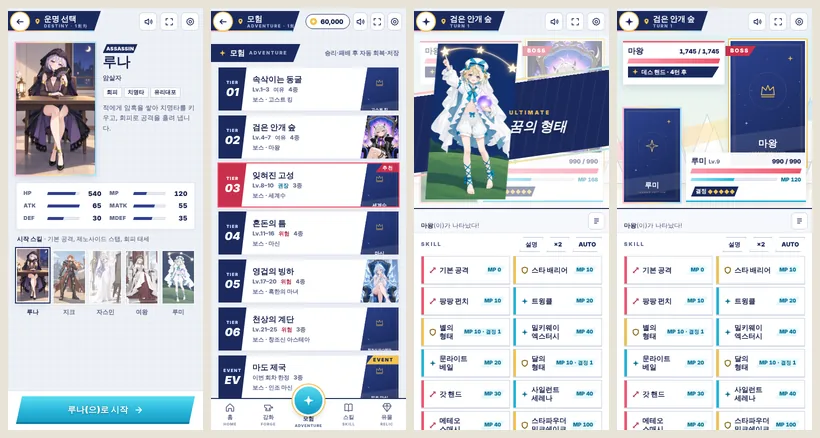
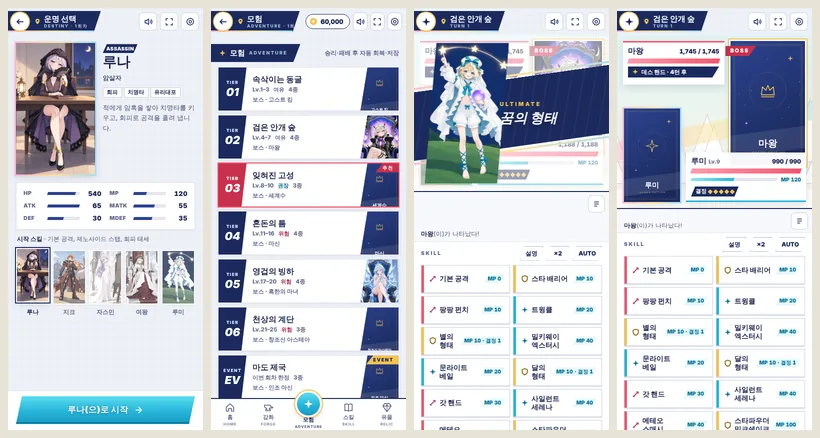
fix(rpg): fill the lobby, smaller adventure medallion, a log that holds a turn
- Home: the hero card now takes the height left over, so the art fills
  the middle; level moves to a medal on the card, stats sit in one strip
  right under it, followed by shortcuts for what can be done now (forge
  affordable, learnable skills, next relic) and the sortie button.
- The adventure medallion is smaller and rises less, so it no longer
  covers the "모험" label or the sortie button above it.
- Battle log shows four to five lines (a whole turn) with a slim turn
  divider; the stage gives up a little height for it.
- Blocked skills no longer print "MP 부족" over the cost; the cost chip
  turns coral instead, and the reason stays in the button's label.

Claude-Session: https://claude.ai/code/session_01NRTbSfcRSphDH17by6Gqf7

Changed region(s): [[0.4878, 0.5046, 0.7317, 0.9795], [0.4878, 0.089, 0.7622, 0.5046], [0.3354, 0.8607, 0.3963, 0.9795]]

diff --git a/rpg/new.html b/rpg/new.html
@@ -165,26 +165,33 @@ main { position: relative; flex: 1; min-height: 0; }
 #scr-town[data-tab=home] #page-home { display: flex; }
 .home-bg { position: absolute; inset: 0; }
 .home-bg .scenery { width: 100%; height: 100%; }
-.home-bg::after { content: ""; position: absolute; inset: 0; background: linear-gradient(rgba(238, 241, 247, 0) 30%, rgba(238, 241, 247, .95) 70%); }
-.home-hero { position: relative; flex: 1; min-height: 0; display: grid; grid-template-columns: minmax(0, 47%) 1fr; gap: 14px; padding: 12px 14px 0; align-items: start; }
-.home-art { position: relative; }
-.home-art .frame { width: 100%; }
-.hero-name { position: absolute; z-index: 3; left: -14px; bottom: 7%; display: flex; flex-direction: column; padding: 6px 24px 6px 18px; background: var(--navy); color: #fff; clip-path: var(--slant); }
-.hero-name b { font-size: 20px; font-weight: 900; line-height: 1.1; }
+.home-bg::after { content: ""; position: absolute; inset: 0; background: linear-gradient(rgba(238, 241, 247, 0) 45%, rgba(238, 241, 247, .96) 72%); }
+/* Lobby: the hero card takes whatever height is left, so the art fills the middle on every screen. */
+.home { position: relative; z-index: 1; flex: 1; min-height: 0; display: grid; grid-template-rows: minmax(0, 1fr) auto auto auto; gap: 10px; padding: 12px 14px 22px; }
+.home-stage { position: relative; min-height: 0; display: flex; justify-content: center; }
+.home-glow { position: absolute; left: 50%; top: 50%; width: 120%; aspect-ratio: 1; transform: translate(-50%, -50%); background: repeating-conic-gradient(from 0deg, rgba(255, 255, 255, .55) 0 6deg, transparent 6deg 18deg); -webkit-mask-image: radial-gradient(circle, #000 0, transparent 62%); mask-image: radial-gradient(circle, #000 0, transparent 62%); pointer-events: none; }
+.home-card { position: relative; height: 100%; max-height: calc((min(100vw, 480px) - 28px) * 1.15); aspect-ratio: 3 / 5; }
+.home-card .frame { width: 100%; height: 100%; }
+.lv-medal { position: absolute; z-index: 3; top: -8px; right: -18px; display: grid; place-content: center; width: 60px; height: 60px; border-radius: 50%; text-align: center; background: #fff; color: var(--navy); box-shadow: 0 0 0 3px var(--gold), var(--shadow); }
+.lv-medal small { font-size: 9px; font-weight: 900; letter-spacing: .22em; color: var(--ink-3); }
+.lv-medal b { font-size: 23px; font-weight: 900; font-style: italic; line-height: 1; }
+.hero-name { position: absolute; z-index: 3; left: -18px; bottom: 7%; display: flex; flex-direction: column; padding: 6px 26px 6px 18px; background: var(--navy); color: #fff; clip-path: var(--slant); }
+.hero-name b { font-size: 21px; font-weight: 900; line-height: 1.1; }
 .hero-name small { font-size: 11px; font-weight: 800; color: #CFE0FF; }
-.hero-side { display: flex; flex-direction: column; gap: 10px; min-width: 0; }
-.lv { display: flex; align-items: baseline; gap: 6px; }
-.lv b { font-size: 36px; font-weight: 900; font-style: italic; line-height: 1; color: var(--navy); }
-.lv span { font-size: 12px; font-weight: 900; color: var(--ink-3); }
-.lv-sub { margin-top: 5px; font-size: 11px; font-weight: 800; color: var(--ink-3); font-variant-numeric: tabular-nums; }
-.statlist { padding: 6px 12px; }
-.statlist div { display: flex; justify-content: space-between; align-items: baseline; padding: 4px 0; font-size: 11px; font-weight: 900; letter-spacing: .06em; color: var(--ink-3); border-bottom: 1px dashed var(--line); }
-.statlist div:last-child { border-bottom: 0; }
-.statlist b { font-size: 14.5px; letter-spacing: 0; color: var(--ink); font-variant-numeric: tabular-nums; }
-.home-dock { position: relative; z-index: 2; flex-shrink: 0; display: grid; gap: 10px; padding: 12px 14px 14px; }
-.hint { display: flex; align-items: center; gap: 8px; padding: 8px 12px; background: #fff; border-left: 4px solid var(--gold); font-size: 12.5px; font-weight: 800; color: var(--ink-2); box-shadow: 0 2px 6px rgba(27, 42, 94, .06); }
-.hint b { color: var(--ink); }
-.hint svg { width: 16px; height: 16px; flex-shrink: 0; color: var(--gold); }
+.home-stats { display: grid; gap: 8px; padding: 10px 12px; }
+.xp-row { display: grid; grid-template-columns: auto 1fr auto; align-items: center; gap: 10px; font-size: 11px; font-weight: 900; color: var(--ink-3); }
+.xp-row .num { color: var(--ink-2); }
+.stat6 { display: grid; grid-template-columns: repeat(6, 1fr); }
+.stat6 div { padding: 0 2px; text-align: center; font-size: 9.5px; font-weight: 900; letter-spacing: .06em; color: var(--ink-3); border-left: 1px solid var(--line); }
+.stat6 div:first-child { border-left: 0; }
+.stat6 b { display: block; margin-top: 1px; font-size: 14.5px; letter-spacing: 0; color: var(--ink); font-variant-numeric: tabular-nums; }
+.sub4 { display: flex; flex-wrap: wrap; justify-content: center; gap: 4px; }
+.notices { display: flex; flex-wrap: wrap; gap: 6px; }
+.notice { display: inline-flex; align-items: center; gap: 6px; min-height: 34px; padding: 4px 16px 4px 12px; background: #fff; border: 1.5px solid var(--line-2); font-size: 12.5px; font-weight: 900; color: var(--ink); clip-path: var(--para); }
+.notice svg { width: 15px; height: 15px; color: var(--gold); }
+.notice.go { border-color: var(--coral); }
+.notice.go::after { content: ""; width: 7px; height: 7px; border-radius: 50%; background: var(--coral); }
+.notice b { color: var(--aqua-text); }
 .sortie { display: grid; grid-template-columns: auto 1fr auto; align-items: center; gap: 12px; padding: 8px 20px 8px 14px; text-align: left; }
 .sortie .medal { display: grid; place-items: center; width: 50px; height: 50px; border-radius: 50%; background: #fff; color: var(--navy); font-size: 20px; font-weight: 900; font-style: italic; box-shadow: 0 0 0 3px var(--gold); text-shadow: none; }
 .sortie .s-top { display: block; font-size: 10.5px; letter-spacing: .2em; opacity: .92; }
@@ -236,13 +243,13 @@ main { position: relative; flex: 1; min-height: 0; }
 .nav button[aria-selected=true]:not(.medal-tab) { color: #fff; }
 .nav button[aria-selected=true]:not(.medal-tab)::before { content: ""; position: absolute; inset: 6px 3px; z-index: -1; background: var(--navy); clip-path: var(--para); }
 .medal-tab { color: var(--navy) !important; }
-.medal-tab .disc { display: grid; place-items: center; width: 56px; height: 56px; margin-top: -28px; border-radius: 50%; background: var(--aqua); color: #fff; box-shadow: 0 0 0 4px #fff, 0 0 0 6px var(--navy), 0 6px 14px rgba(27, 42, 94, .3); }
-.medal-tab .disc svg { width: 26px; height: 26px; }
+.medal-tab .disc { display: grid; place-items: center; width: 46px; height: 46px; margin-top: -14px; border-radius: 50%; background: var(--aqua); color: #fff; box-shadow: 0 0 0 4px #fff, 0 0 0 6px var(--navy), 0 6px 14px rgba(27, 42, 94, .3); }
+.medal-tab .disc svg { width: 22px; height: 22px; }
 .medal-tab[aria-selected=true] .disc { box-shadow: 0 0 0 4px #fff, 0 0 0 6px var(--gold), 0 6px 14px rgba(27, 42, 94, .3); }
 
 /* ---------- Battle ---------- */
 #scr-battle { background: #fff; }
-.stage { --stage-h: clamp(244px, 41dvh, 352px); position: relative; flex-shrink: 0; height: var(--stage-h); overflow: hidden; }
+.stage { --stage-h: clamp(228px, 37dvh, 330px); position: relative; flex-shrink: 0; height: var(--stage-h); overflow: hidden; }
 .stage-bg { position: absolute; inset: 0; }
 .stage-bg .scenery { width: 100%; height: 100%; }
 .stage::before { content: ""; position: absolute; z-index: 1; left: -10%; right: -10%; top: 50%; height: 38px; background: linear-gradient(90deg, rgba(255, 183, 211, .5), rgba(255, 229, 156, .5), rgba(158, 223, 255, .5)); transform: rotate(-12deg); pointer-events: none; }
@@ -301,15 +308,16 @@ main { position: relative; flex: 1; min-height: 0; }
 @keyframes art-in { 0% { transform: translateX(-60%); opacity: 0; } 20% { transform: none; opacity: 1; } 84% { transform: translateX(4%); opacity: 1; } 100% { transform: translateX(18%); opacity: 0; } }
 @keyframes art-in-r { 0% { transform: translateX(60%); opacity: 0; } 20% { transform: none; opacity: 1; } 84% { transform: translateX(-4%); opacity: 1; } 100% { transform: translateX(-18%); opacity: 0; } }
 @keyframes text-in { 0% { transform: translateY(-50%) translateX(30%); opacity: 0; } 26% { transform: translateY(-50%); opacity: 1; } 84% { opacity: 1; } 100% { transform: translateY(-50%) translateX(-10%); opacity: 0; } }
-.log { position: relative; flex-shrink: 0; height: 50px; padding: 5px 50px 5px 14px; overflow: hidden; background: var(--paper-2); border-top: 2px solid var(--navy); border-bottom: 1px solid var(--line); font-size: 12.5px; line-height: 20px; }
-.log-lines { position: absolute; left: 14px; right: 50px; bottom: 4px; -webkit-mask-image: linear-gradient(transparent, #000 45%); mask-image: linear-gradient(transparent, #000 45%); }
+.log { position: relative; flex-shrink: 0; height: clamp(80px, 12dvh, 104px); padding: 6px 50px 6px 14px; overflow: hidden; background: var(--paper-2); border-top: 2px solid var(--navy); border-bottom: 1px solid var(--line); font-size: 12.5px; line-height: 19px; }
+.log-lines { position: absolute; left: 14px; right: 50px; bottom: 6px; -webkit-mask-image: linear-gradient(transparent, #000 18%); mask-image: linear-gradient(transparent, #000 18%); }
 .log.open { position: absolute; z-index: 30; inset: 0; height: auto; padding: 52px 16px 16px; overflow-y: auto; background: rgba(255, 255, 255, .98); }
 .log.open .log-lines { position: static; -webkit-mask-image: none; mask-image: none; }
 .log-line { color: var(--ink-2); }
 .log-line b { color: var(--ink); }
 .log-line .dmg { color: var(--coral-text); font-weight: 900; }
 .log-line .heal { color: var(--aqua-text); font-weight: 900; }
-.log-line.l-turn { margin-top: 6px; font-size: 10px; font-weight: 900; letter-spacing: .2em; color: var(--ink-3); }
+.log-line.l-turn { display: flex; align-items: center; gap: 8px; margin-top: 4px; font-size: 9.5px; line-height: 15px; font-weight: 900; letter-spacing: .2em; color: var(--ink-3); }
+.log-line.l-turn::after { content: ""; flex: 1; height: 1px; background: var(--line-2); }
 .log-line.l-dmg, .log-line.l-rose, .log-line.l-lose { color: var(--coral-text); }
 .log-line.l-heal, .log-line.l-star, .log-line.l-mag { color: var(--aqua-text); }
 .log-line.l-holy, .log-line.l-fire, .log-line.l-win { color: var(--gold-text); }
@@ -339,16 +347,14 @@ main { position: relative; flex: 1; min-height: 0; }
 .sk.ult .sk-cost { color: var(--ink); background: var(--gold); }
 .sk.ult .sk-desc { color: #D5DEF7; }
 .ult-mark { font-size: 9.5px; font-weight: 900; letter-spacing: .2em; color: var(--gold); }
-.sk .reason { position: absolute; right: 8px; bottom: 4px; font-size: 10px; font-weight: 900; color: var(--coral-text); }
 .sk:disabled { background: var(--paper-2); border-color: var(--line); box-shadow: none; }
 .sk:disabled .sk-name, .sk:disabled .sk-desc { color: var(--ink-3); }
 .sk:disabled .sk-cost { color: var(--ink-3); background: var(--track); }
+.sk:disabled .sk-cost.short { color: var(--coral-text); background: #FFE6EB; }
 .sk.ult:disabled { background: #4A5683; border-color: #4A5683; }
 .sk.ult:disabled .sk-name { color: #DCE3F7; }
-.sk.ult:disabled .reason { color: #FFD3DB; }
+.sk.ult:disabled .sk-cost.short { color: #fff; background: var(--coral-fill); }
 .sk.ready { box-shadow: 0 0 0 2px var(--gold), 0 2px 0 var(--line); }
-.sk.ready .reason { color: var(--gold-text); }
-.sk.ult.ready .reason { color: var(--gold); }
 .sk:active:not(:disabled) { transform: translateY(1px); box-shadow: none; }
 .pass { grid-column: span 2; min-height: 56px; background: #FFF2F4; border: 1.5px solid var(--coral); color: var(--coral-text); font-weight: 900; }
 #scr-battle[aria-busy=true] .sk, #scr-battle[aria-busy=true] .pass { pointer-events: none; }
@@ -3532,29 +3538,41 @@ const UI = (() => {
         const next = nextArtifactLevel();
         const target = (gameState.lastDungeon && dungeonById(gameState.lastDungeon)) || recommended();
         const stats = [['HP', player.maxHp], ['MP', player.maxMp], ['ATK', player.atk], ['MATK', player.matk], ['DEF', player.def], ['MDEF', player.mdef]];
+        // What can be done right now, each a shortcut to its tab.
+        const costs = [equipCost('weapon'), equipCost('armor'), manaCost()].filter(c => c !== null);
+        const canForge = costs.length && gameState.gold >= Math.min(...costs);
+        const learnable = Object.keys(player.skills).filter(k => !gameState.learnedSkills.includes(k) && player.skills[k].price <= gameState.gold).length;
+        const notices = [];
+        if (canForge) notices.push(`<button class="notice go" type="button" data-to="forge">${icon('anvil')}강화 가능</button>`);
+        if (learnable) notices.push(`<button class="notice go" type="button" data-to="skills">${icon('book')}배울 수 있는 스킬 <b>${learnable}</b></button>`);
+        notices.push(`<button class="notice" type="button" data-to="relics">${icon('relic')}${next ? `다음 유물 <b>Lv.${next}</b> · ${next - player.level}레벨 남음` : `유물 <b>${player.artifacts.length}</b>개`}</button>`);
         $('page-home').innerHTML = `
             <div class="home-bg">${Art.scenery('town', 'town')}</div>
-            <div class="home-hero">
-                <div class="home-art"><div class="frame edge" id="home-art"></div><div class="hero-name"><b>${player.name}</b><small>${info.role} · ${info.en}</small></div></div>
-                <div class="hero-side">
-                    <div><div class="lv"><b>Lv.${player.level}</b><span>/ ${maxLevel}</span></div>
-                        <div class="gauge xp" style="--v:${atMax ? 100 : Math.min(100, player.exp / need * 100)}%;margin-top:8px"><i></i></div>
-                        <div class="lv-sub">${atMax ? '최대 레벨' : `EXP ${fmt(player.exp)} / ${fmt(need)}`}</div></div>
-                    <div class="panel-card statlist">${stats.map(([k, v]) => `<div>${k}<b>${fmt(v)}</b></div>`).join('')}</div>
-                    <div class="chips"><span class="chip">치명 ${pct(player.baseCrit)}</span><span class="chip">치명 피해 ${pct(player.baseCritDmg)}</span><span class="chip">회피 ${pct(player.baseEva)}</span><span class="chip">MP 회복 +${player.mpRegen}</span></div>
+            <div class="home">
+                <div class="home-stage"><div class="home-glow"></div>
+                    <div class="home-card"><div class="frame edge" id="home-art"></div>
+                        <div class="lv-medal"><small>LV</small><b>${player.level}</b></div>
+                        <div class="hero-name"><b>${player.name}</b><small>${info.role} · ${info.en}</small></div>
+                    </div>
                 </div>
-            </div>
-            <div class="home-dock">
-                ${gameState.clearedCreator ? `<button class="cycle-card edge" id="btn-next-cycle" type="button"><b>창조신을 쓰러뜨렸습니다 · 다음 회차로</b><span>적 능력치 +10% · 최대 레벨 +1 · 해금한 유물 유지</span></button>` : ''}
-                ${next ? `<p class="hint" style="margin:0">${icon('star')}<span><b>Lv.${next}</b>에 새 유물 · ${next - player.level}레벨 남음 · 보유 ${player.artifacts.length}개</span></p>` : ''}
-                <button class="cta sortie" id="btn-sortie" type="button">
-                    <span class="medal">${target.lv ? String(target.tier).padStart(2, '0') : target.hidden ? '??' : 'EV'}</span>
-                    <span><span class="s-top">${gameState.lastDungeon ? 'AGAIN' : 'SORTIE'}</span><span class="s-main">${gameState.lastDungeon ? '다시 탐험' : '탐험 출발'}</span><span class="s-sub">${target.name}${target.lv ? ` · Lv.${target.lv[0]}–${target.lv[1]}` : ''}</span></span>
-                    ${icon('go')}
-                </button>
+                <div class="panel-card home-stats">
+                    <div class="xp-row"><span>EXP</span><div class="gauge xp" style="--v:${atMax ? 100 : Math.min(100, player.exp / need * 100)}%"><i></i></div><span class="num">${atMax ? `MAX · Lv.${maxLevel}` : `${fmt(player.exp)} / ${fmt(need)} · 최대 Lv.${maxLevel}`}</span></div>
+                    <div class="stat6">${stats.map(([k, v]) => `<div>${k}<b>${fmt(v)}</b></div>`).join('')}</div>
+                    <div class="sub4"><span class="chip">치명 ${pct(player.baseCrit)}</span><span class="chip">치명 피해 ${pct(player.baseCritDmg)}</span><span class="chip">회피 ${pct(player.baseEva)}</span><span class="chip">MP 회복 +${player.mpRegen}</span></div>
+                </div>
+                <div class="notices">${notices.join('')}</div>
+                <div style="display:grid;gap:10px">
+                    ${gameState.clearedCreator ? `<button class="cycle-card edge" id="btn-next-cycle" type="button"><b>창조신을 쓰러뜨렸습니다 · 다음 회차로</b><span>적 능력치 +10% · 최대 레벨 +1 · 해금한 유물 유지</span></button>` : ''}
+                    <button class="cta sortie" id="btn-sortie" type="button">
+                        <span class="medal">${target.lv ? String(target.tier).padStart(2, '0') : target.hidden ? '??' : 'EV'}</span>
+                        <span><span class="s-top">${gameState.lastDungeon ? 'AGAIN' : 'SORTIE'}</span><span class="s-main">${gameState.lastDungeon ? '다시 탐험' : '탐험 출발'}</span><span class="s-sub">${target.name}${target.lv ? ` · Lv.${target.lv[0]}–${target.lv[1]}` : ''}</span></span>
+                        ${icon('go')}
+                    </button>
+                </div>
             </div>`;
         Art.heroArt($('home-art'), player.charKey);
         $('btn-sortie').onclick = () => enterDungeon(target);
+        $('page-home').querySelectorAll('[data-to]').forEach(button => button.onclick = () => { tab = button.dataset.to; renderTown(); });
         const cycle = $('btn-next-cycle');
         if (cycle) cycle.onclick = nextCycle;
     }
@@ -3818,10 +3836,10 @@ const UI = (() => {
         const ordered = keys.filter(k => !player.skills[k].isUlt).concat(keys.filter(k => player.skills[k].isUlt));
         grid.innerHTML = ordered.map(k => {
             const s = player.skills[k], blocked = skillBlocker(k), ready = isCharged(s);
-            return `<button class="sk t-${s.type}${s.isUlt ? ' ult' : ''}${ready ? ' ready' : ''}" type="button" data-skill="${k}" ${blocked ? 'disabled' : ''}>
+            return `<button class="sk t-${s.type}${s.isUlt ? ' ult' : ''}${ready ? ' ready' : ''}" type="button" data-skill="${k}" ${blocked ? `disabled aria-label="${s.name}, ${blocked}"` : ''}>
                 ${s.isUlt ? '<span class="ult-mark">ULTIMATE</span>' : ''}
-                <span class="sk-top"><span class="ico">${Art.typeIcon(s.type)}</span><span class="sk-name">${s.name}</span><span class="sk-cost">${ready ? '발동' : skillCost(s)}</span></span>
-                <span class="sk-desc">${s.desc}</span>${blocked ? `<span class="reason">${blocked}</span>` : ready ? '<span class="reason">차지 완료</span>' : ''}</button>`;
+                <span class="sk-top"><span class="ico">${Art.typeIcon(s.type)}</span><span class="sk-name">${s.name}</span><span class="sk-cost${blocked ? ' short' : ''}">${ready ? '발동' : skillCost(s)}</span></span>
+                <span class="sk-desc">${s.desc}</span></button>`;
         }).join('');
         grid.querySelectorAll('[data-skill]').forEach(button => button.onclick = () => act(button.dataset.skill));
     }

diff --git a/rpg/README.md b/rpg/README.md
@@ -22,7 +22,7 @@
 **화면**
 - 모든 그림 틀은 3:5입니다. 레이아웃은 일러스트를 중심으로 짰습니다.
   - 타이틀: 다섯 캐릭터를 부채꼴로 겹쳐 세운 키 비주얼. 마지막으로 플레이한 캐릭터가 앞에 섭니다.
-  - 마을 홈: 내 캐릭터 일러스트와 출격 버튼.
+  - 마을 홈: 남는 높이를 모두 채우는 캐릭터 일러스트(레벨 메달), 스탯 띠, 지금 할 수 있는 일(강화 가능·배울 수 있는 스킬·다음 유물), 출격 버튼.
   - 모험 목록: 던전마다 보스 일러스트를 썸네일로 보여줍니다.
   - 전투: 적 카드는 오른쪽 위, 내 카드는 왼쪽 아래, 정보판은 각각 맞은편에 둔 대각 구도입니다.
 - 색은 스텔라 소라식입니다.
@@ -34,6 +34,7 @@
   - 필살기·보스 등장·보스 특수기는 일러스트가 대각선 띠로 들어오는 컷인으로 보여줍니다. 화면을 누르면 건너뜁니다.
   - 적의 다음 행동을 예고합니다: 데스 핸드까지 남은 턴, 차지, 반격 태세, 마신의 면역 턴, 시간의 지배자 예고, 세계수의 빛 등. 예고가 없는 적은 쓰는 기술의 종류와 위력을 보여줍니다.
   - 장미·꿈의 결정·앱솔루트·디바인·암흑 같은 캐릭터 자원이 늘 보입니다.
+  - 전투 기록은 한 턴(내 행동, 적의 행동, 받은 피해)이 다 보이도록 4~5줄을 보여주고, 펼치면 전체 기록을 봅니다.
 - **AUTO · ×2 · 반복 탐험**
   - AUTO는 다음 순서로 스킬을 고릅니다.
     1. 이번 공격으로 끝낼 수 있으면 마무리
@@ -45,7 +46,7 @@
   - 적정 레벨 던전에서 무작위 선택·기본 공격만 쓰기보다 승률이 같거나 높고, 전투가 짧습니다.
   - AUTO를 켠 채 이기면 3초 뒤 같은 던전을 다시 탐험합니다.
 - 버튼
-  - MP·결정이 부족한 스킬, 골드가 부족한 구매는 이유를 붙여 비활성화합니다.
+  - MP·결정이 부족한 스킬은 비활성화하고 비용 칩을 코랄색으로 바꿔 무엇이 모자란지 보여줍니다. 골드가 부족한 구매는 "골드 부족"을 표시합니다.
   - 행동 불가 턴에는 "턴 넘기기" 하나만 나옵니다.
   - 키보드로는 1~9가 스킬, Space가 재생 건너뛰기입니다.
 - 소리·화면: 마을·전투·보스 음악과 효과음은 WebAudio로 만들고 첫 터치 뒤부터 납니다. 전체화면 버튼은 브라우저가 지원할 때만 보입니다.
